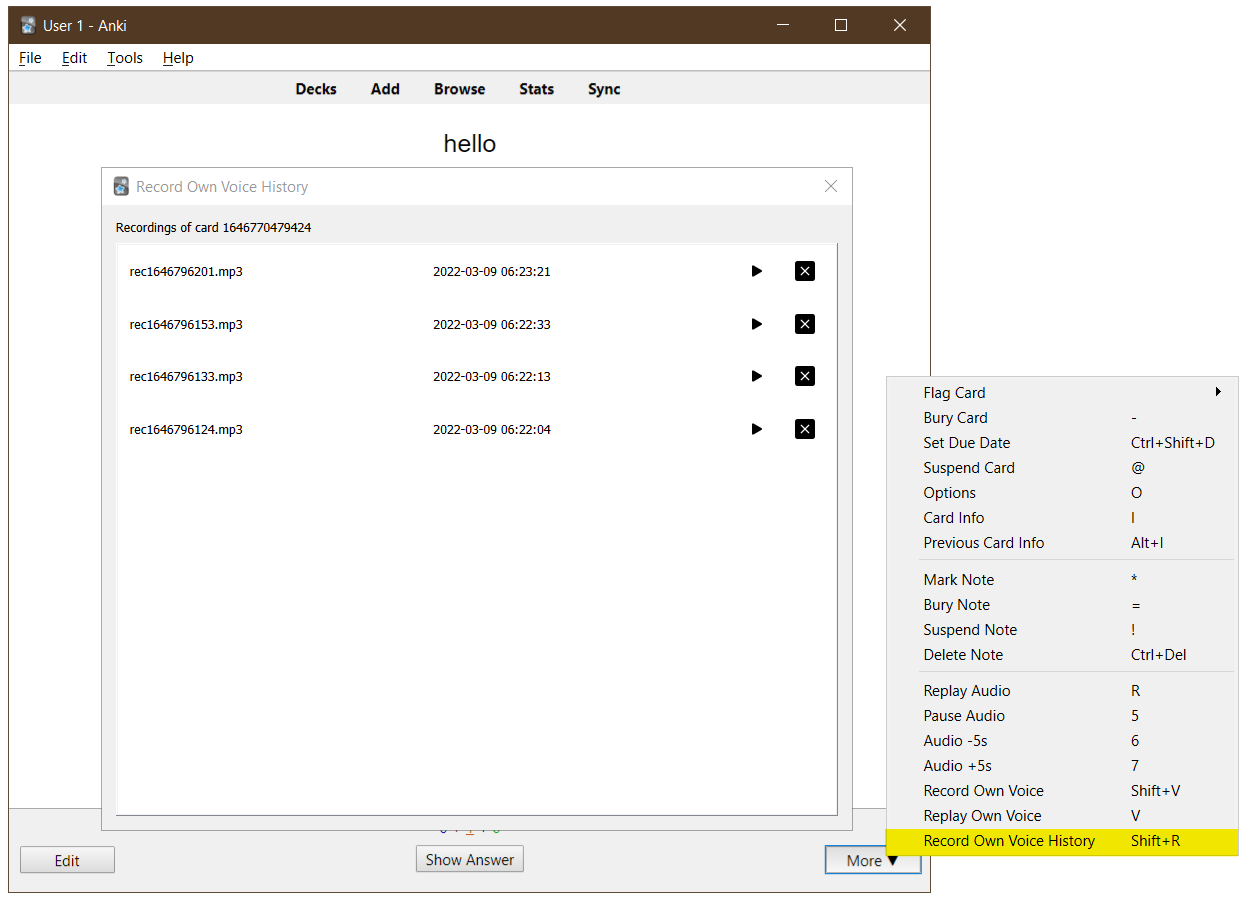
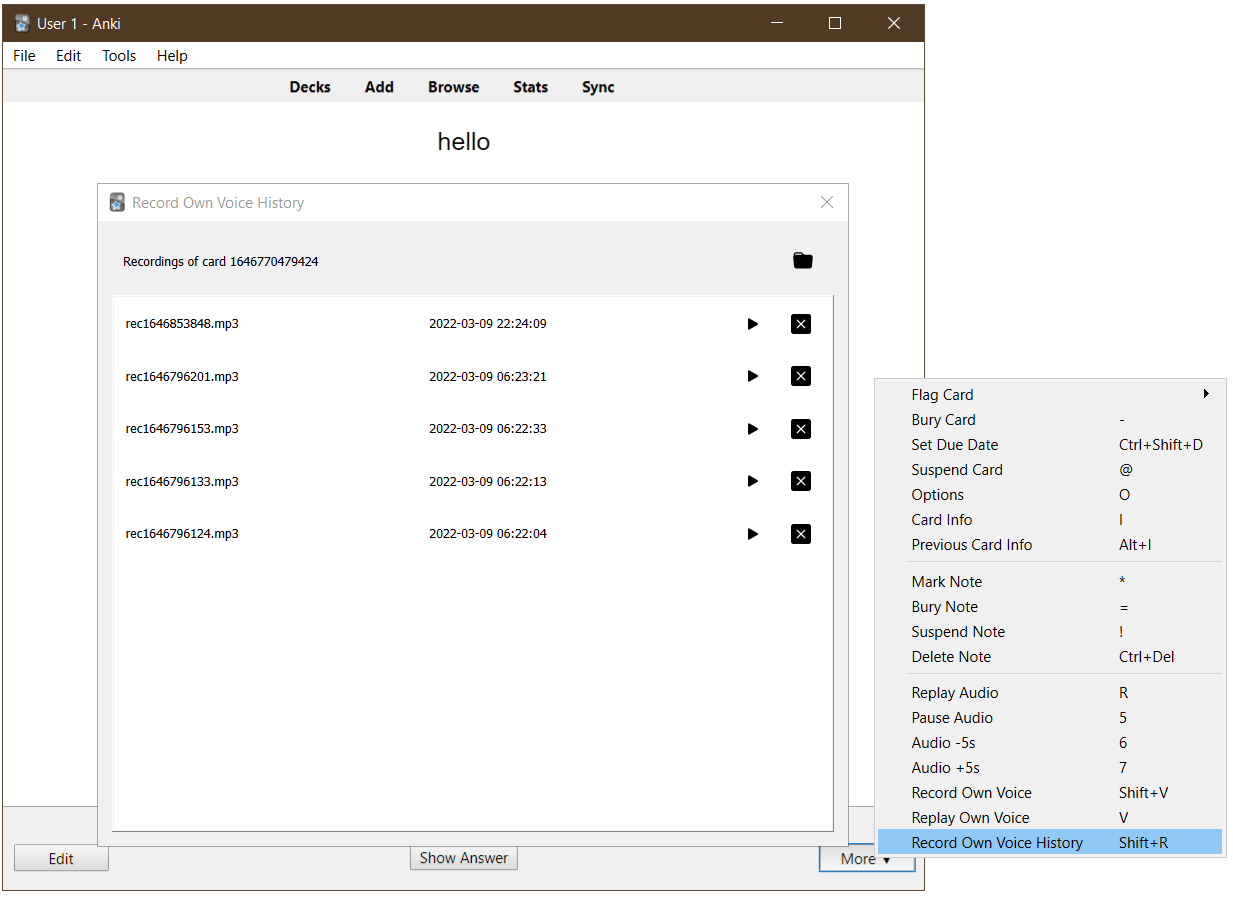
Add button to open card's recordings folder

diff --git a/src/dialog.py b/src/dialog.py
@@ -3,8 +3,9 @@ import datetime
 
 from aqt.qt import *
 from aqt.sound import av_player
+from aqt.utils import openFolder
 
-from .record import get_recordings
+from .record import get_recordings, get_card_recordings_dir
 from .consts import *
 
 
@@ -29,10 +30,8 @@ class RecordingWidgetButton(QPushButton):
     def __init__(self, icon: QIcon, parent):
         super().__init__(parent)
         self.setIcon(icon)
-        # FIXME
         self.setMaximumSize(32, 32)
         self.setFlat(True)
-        # self.setStyleSheet("QPushButton {background-color: transparent; border: 0px;}")
         self.setCursor(Qt.CursorShape.PointingHandCursor)
 
 
@@ -78,10 +77,20 @@ class RecordingHistoryDialog(QDialog):
         self.resize(600, 500)
         vbox = QVBoxLayout()
         self.label = QLabel(f"Recordings of card {self.card_id}", self)
-        vbox.addWidget(self.label)
+        self.open_folder_button = RecordingWidgetButton(FOLDER_BUTTON_ICON, self)
+        qconnect(
+            self.open_folder_button.clicked, lambda: openFolder(self.recordings_folder)
+        )
+        w = QWidget()
+        hbox = QHBoxLayout()
+        hbox.addWidget(self.label)
+        hbox.addWidget(self.open_folder_button)
+        w.setLayout(hbox)
+        vbox.addWidget(w)
         list_widget = self.listWidget = QListWidget(self)
         vbox.addWidget(list_widget)
         self.setLayout(vbox)
+        self.recordings_folder = get_card_recordings_dir(self.card_id)
         files = get_recordings(self.card_id)
 
         for file in files:

diff --git a/src/consts.py b/src/consts.py
@@ -10,3 +10,4 @@ os.makedirs(RECORDINGS_DIR, exist_ok=True)
 ICONS_DIR = os.path.join(ADDON_DIR, "icons")
 PLAY_BUTTON_ICON = QIcon(os.path.join(ICONS_DIR, "play-fill.svg"))
 DELETE_BUTTON_ICON = QIcon(os.path.join(ICONS_DIR, "x-square-fill.svg"))
+FOLDER_BUTTON_ICON = QIcon(os.path.join(ICONS_DIR, "folder-fill.svg"))
